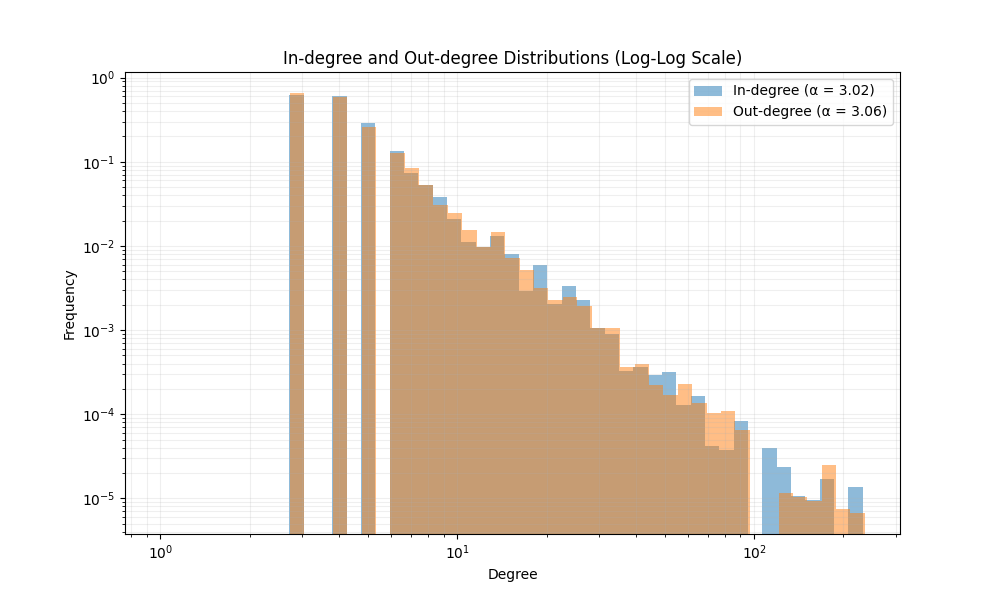
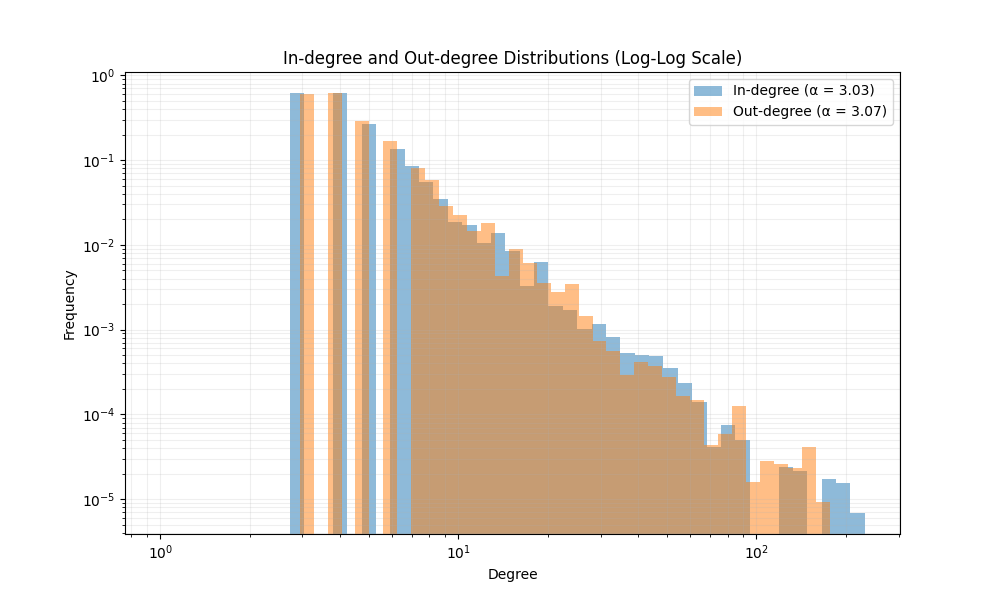
chore: update deps

diff --git a/setup.py b/setup.py
@@ -2,12 +2,12 @@ from setuptools import setup, find_packages
 
 setup(
     name="ba-pns",
-    version="0.1.1",
+    version="0.1.2",
     packages=find_packages(),
     install_requires=[
         'networkx==3.1',
         'numpy==1.24.1',
-        'matplotlib==3.7.2',
+        'matplotlib==3.9.2',
         'powerlaw==1.5',
         'pandas==2.2.2',
     ],
